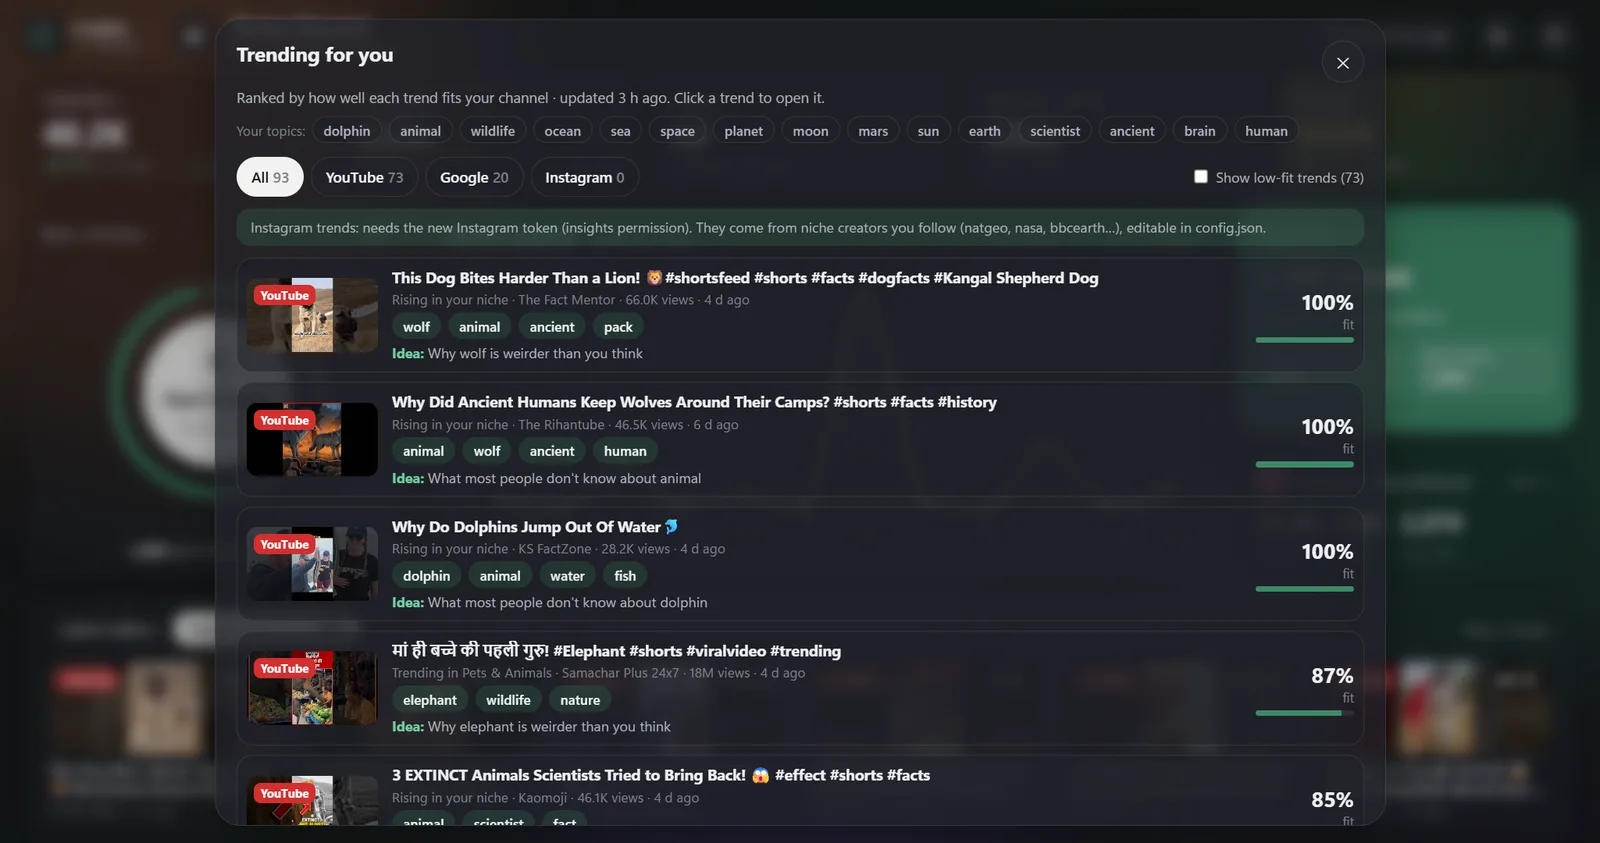
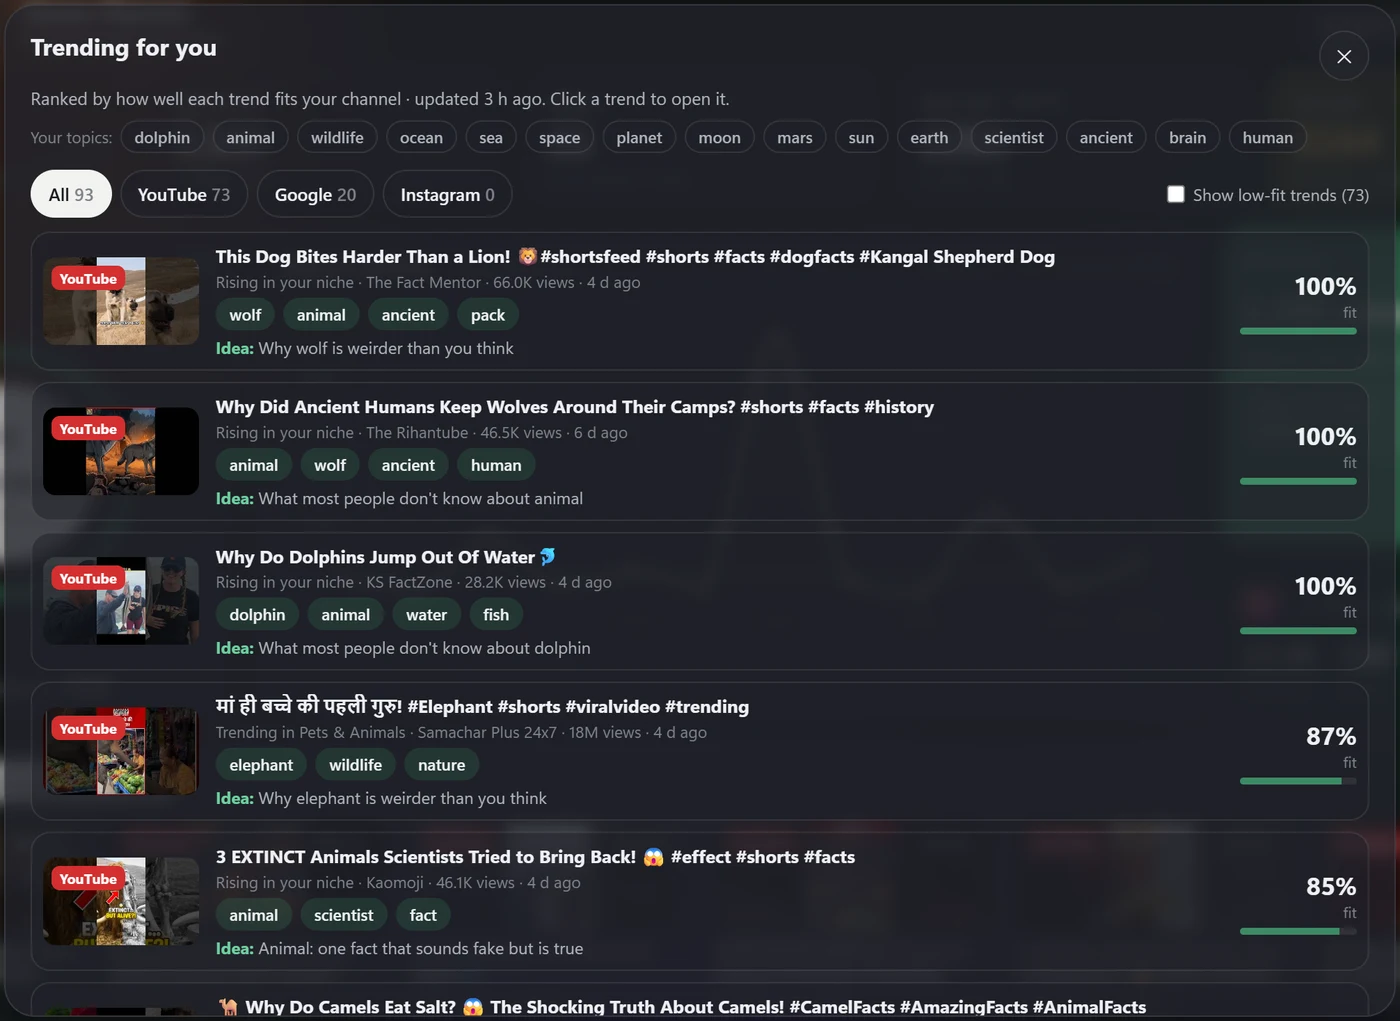
Sharp, correctly proportioned screenshots
Feature images are now 2x crops of just each panel (no blurred background),
and images keep their aspect ratio (height: auto) instead of stretching.
The internal Instagram setup note is hidden in the demo shot.

diff --git a/index.html b/index.html
@@ -62,7 +62,7 @@ nav .spacer { flex: 1; }
 .fine { font-size: 13px; color: var(--ink-3); margin-top: 12px; }
 .shot { margin: 40px auto 0; padding: 10px; border-radius: 26px; max-width: 1080px; }
 .shot { position: relative; }
-.shot img { width: 100%; display: block; border-radius: 18px; }
+.shot img { width: 100%; height: auto; display: block; border-radius: 18px; }
 .demo { position: absolute; z-index: 1; font-size: 11.5px; font-weight: 700; letter-spacing: .03em; color: var(--ink);
   background: rgba(15,17,20,.78); border: 1px solid var(--line); padding: 4px 10px; border-radius: 999px; }
 .shot .demo { right: 22px; bottom: 22px; }
@@ -87,7 +87,8 @@ h2 { font-size: clamp(26px, 4vw, 38px); letter-spacing: -.02em; line-height: 1.1
 .feat p { color: var(--ink-2); }
 .feat ul { margin: 12px 0 0; padding-left: 18px; color: var(--ink-2); }
 .feat li { margin: 4px 0; }
-.feat img { width: 100%; border-radius: 14px; display: block; border: 1px solid var(--line); }
+.feat img { width: 100%; height: auto; border-radius: 14px; display: block; border: 1px solid var(--line); }
+.feat .pic { max-width: 620px; margin: 0 auto; width: 100%; }
 .tag { font-size: 12px; font-weight: 700; color: var(--gold); letter-spacing: .04em; text-transform: uppercase; }
 .mini { display: grid; grid-template-columns: repeat(4, 1fr); gap: 12px; margin-top: 26px; }
 .mini div { padding: 18px; }
@@ -152,7 +153,7 @@ footer a { color: var(--ink-2); }
       <a class="btn ghost" href="#features">See what it does</a>
     </div>
     <p class="fine">One email when it's ready. No spam, unsubscribe anytime.</p>
-    <div class="glass shot"><span class="demo">Demo data</span><img src="img/dashboard.webp" alt="The Creator Dashboard showing a demo channel: subscribers, views, uploads, earnings, a milestone ring, a recent uploads chart, Instagram stats and latest videos" width="1600" height="844"></div>
+    <div class="glass shot"><span class="demo">Demo data</span><img src="img/dashboard.webp" width="2000" height="1054" alt="The Creator Dashboard showing a demo channel: subscribers, views, uploads, earnings, a milestone ring, a recent uploads chart, Instagram stats and latest videos"></div>
   </header>
 
   <div class="wrap">
@@ -179,7 +180,7 @@ footer a { color: var(--ink-2); }
           <li>How it compares to your typical video</li>
         </ul>
       </div>
-      <div class="pic"><span class="demo">Demo data</span><img src="img/video.webp" alt="Demo data: a video's stats panel: views, likes, subscribers gained, average view duration and watch time" loading="lazy" width="1600" height="844"></div>
+      <div class="pic"><span class="demo">Demo data</span><img src="img/video.webp" width="1400" height="1142" alt="Demo data: a video's stats panel: views, likes, subscribers gained, average view duration and watch time" loading="lazy"></div>
     </div>
 
     <div class="glass feat">
@@ -192,7 +193,7 @@ footer a { color: var(--ink-2); }
           <li>A ready-to-film idea for every trend</li>
         </ul>
       </div>
-      <div class="pic"><span class="demo">Demo data</span><img src="img/trends.webp" alt="The Trending for you panel listing trends with fit scores, matched topics and video ideas" loading="lazy" width="1600" height="844"></div>
+      <div class="pic"><span class="demo">Demo data</span><img src="img/trends.webp" width="1400" height="1021" alt="The Trending for you panel listing trends with fit scores, matched topics and video ideas" loading="lazy"></div>
     </div>
 
     <div class="glass feat">
@@ -201,7 +202,7 @@ footer a { color: var(--ink-2); }
         <h3>Know exactly how far you are from the Partner Program</h3>
         <p>Exact Shorts views and watch hours against YouTube's thresholds, plus what your views could earn once you're in, clearly marked as potential until you are.</p>
       </div>
-      <div class="pic"><span class="demo">Demo data</span><img src="img/earnings.webp" alt="Demo data: the Earnings panel with an earnings estimate and Partner Program progress" loading="lazy" width="1600" height="844"></div>
+      <div class="pic"><span class="demo">Demo data</span><img src="img/earnings.webp" width="1400" height="1244" alt="Demo data: the Earnings panel with an earnings estimate and Partner Program progress" loading="lazy"></div>
     </div>
 
     <div class="mini">
